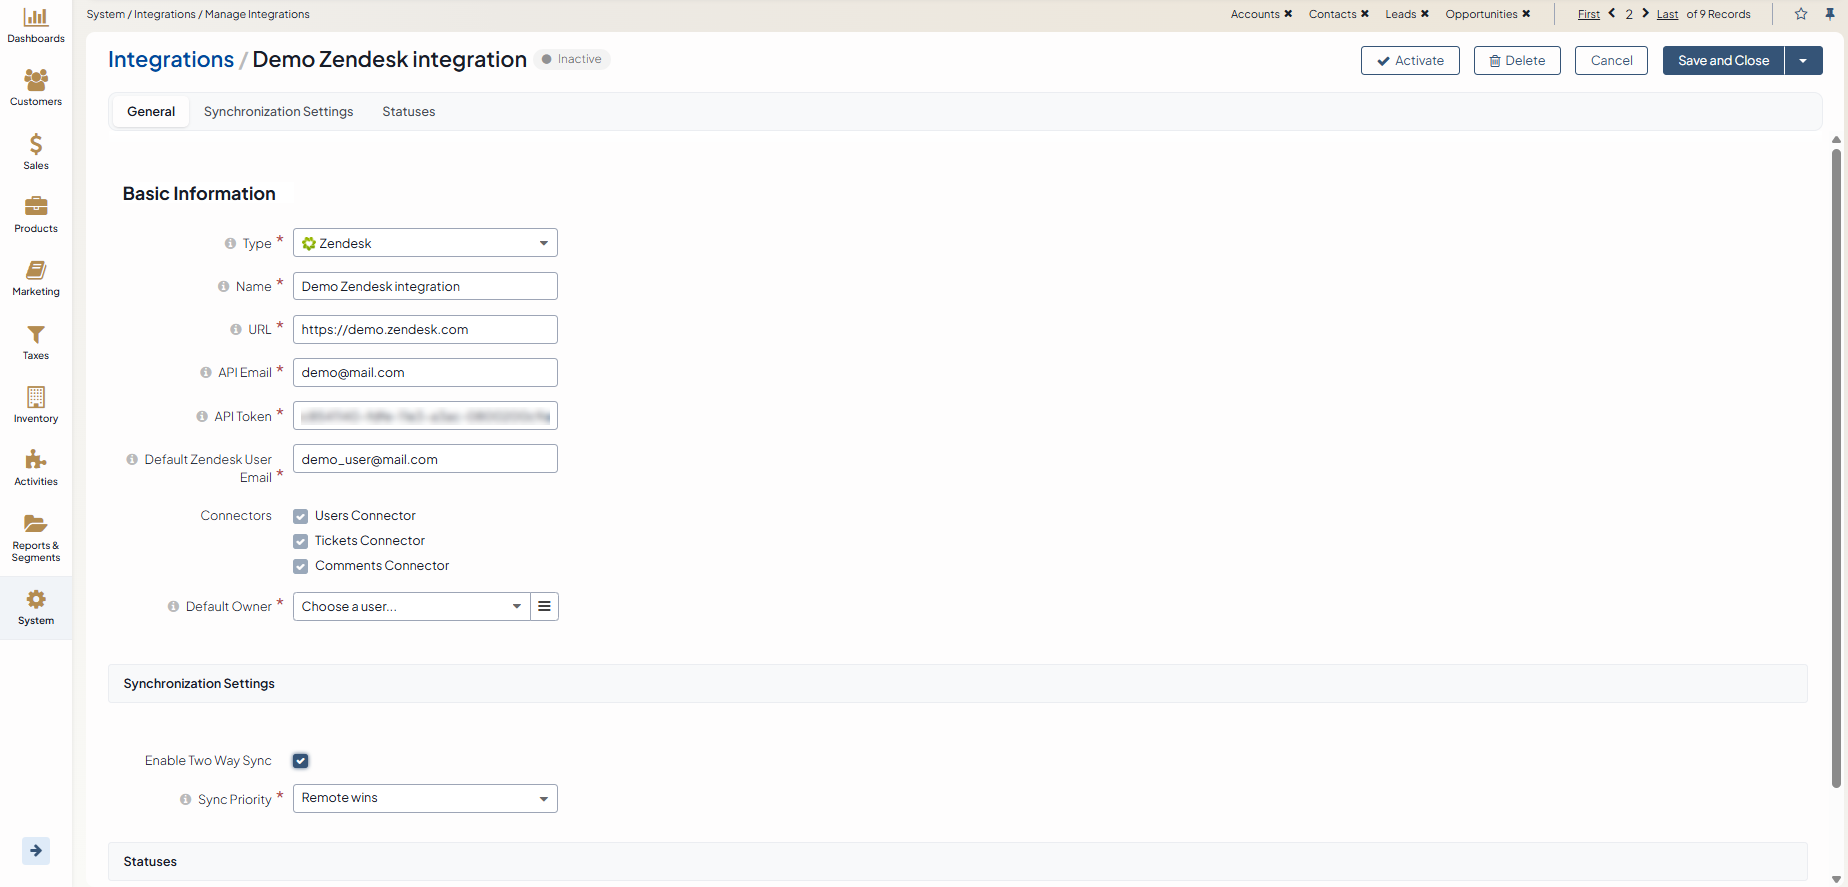
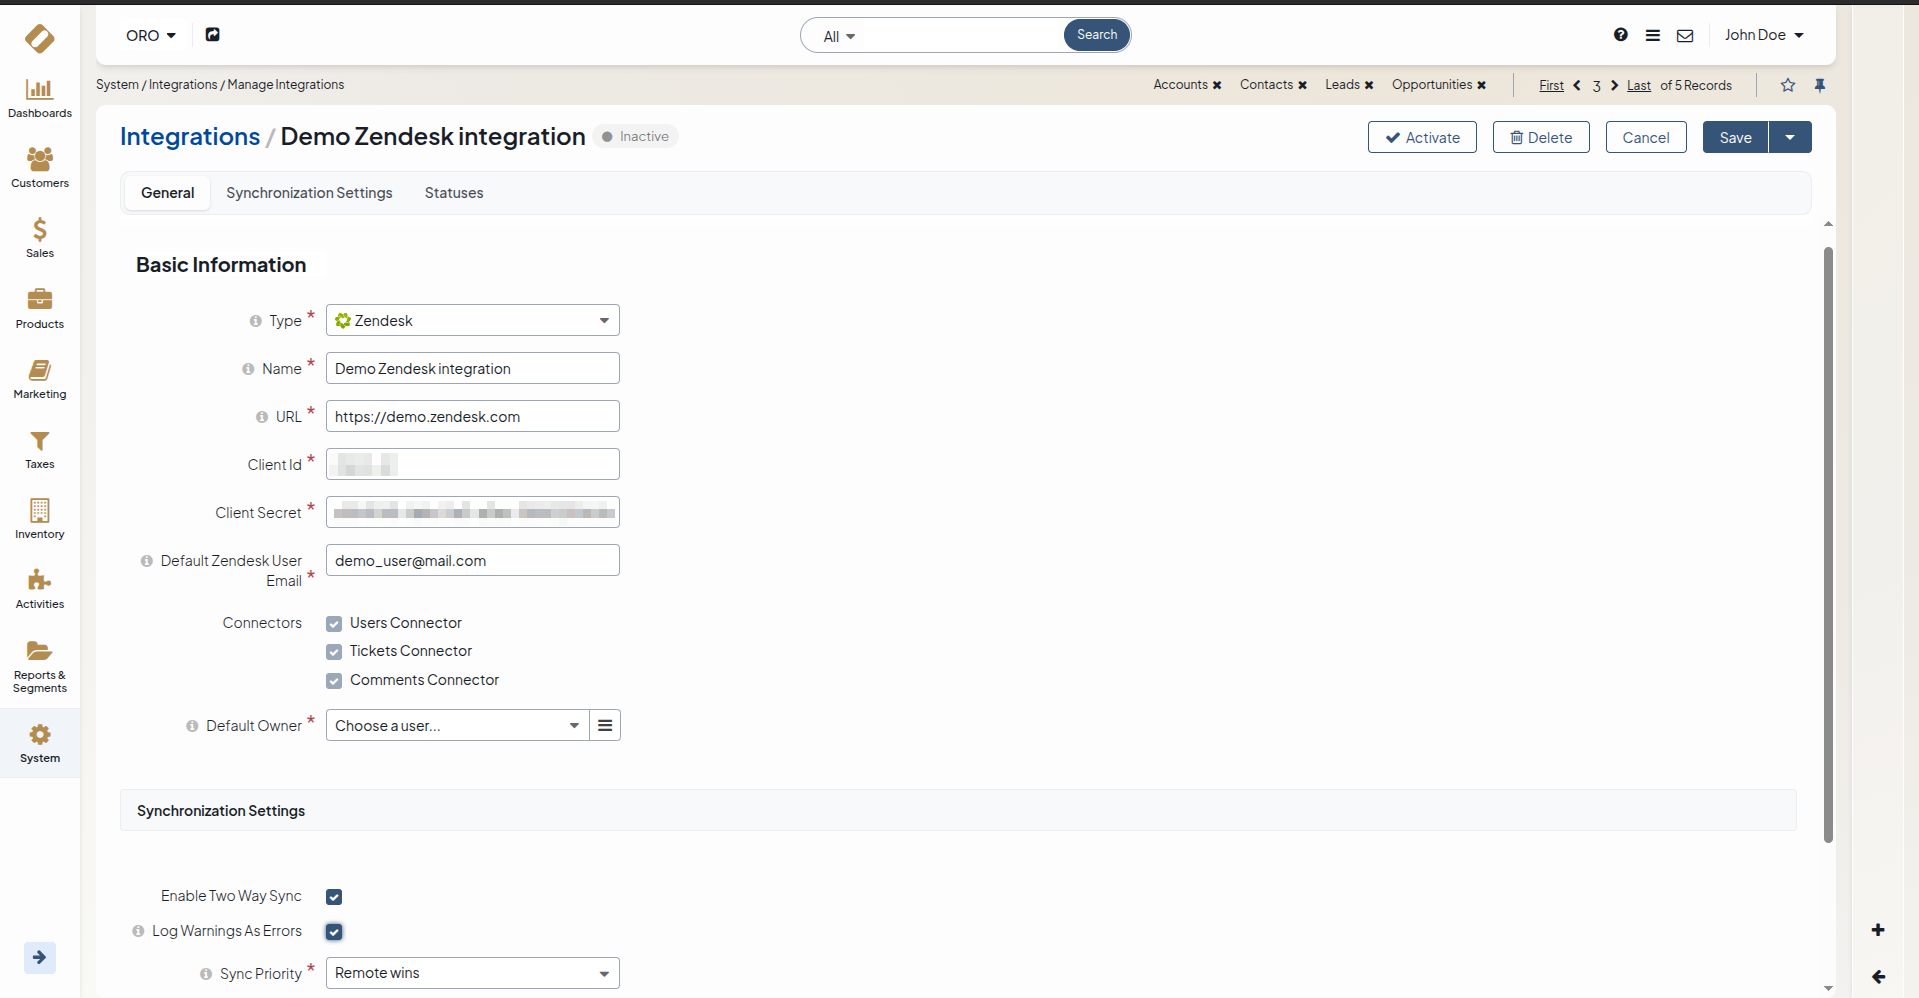
BAP-23236: Update Zendesk Integration m6.1 (#43826)
- Implemented OAuth authentication
- Made auth type configurable and required crypter service for the form
- Updated docs

---------

diff --git a/user/back-office/system/integrations/zendesk-integration.rst b/user/back-office/system/integrations/zendesk-integration.rst
@@ -4,66 +4,121 @@
 Configure Zendesk Integration in the Back-Office
 ================================================
 
-Oro applications support out of the box integration with Zendesk, enabling you to load data from your Zendesk account and process it in the Oro application. This article describes how to define and edit the integration and synchronization settings.
+Oro applications support out-of-the-box integration with Zendesk, enabling you to load data from your Zendesk account and process it in the Oro application.
 
-.. hint:: While Zendesk integration capabilities are pre-implemented, Oro application can be integrated with different third-party systems.
+OroCommerce supports two authentication methods for Zendesk integration:
 
-Generate API token in Zendesk
+* **Basic** --- authenticate using a Zendesk account email and API token.
+* **OAuth** --- use OAuth 2.0 for secure, delegated authorization.
+
+.. _user-guide-zendesk-generate-api-token:
+
+Generate API Token in Zendesk
 -----------------------------
+
+If you plan to use **Basic** as the **Authorization Type**, generate an API token in Zendesk first.
 
 To retrieve your API token on the Zendesk side:
 
 1. Open your account profile.
-2. Click on the cog icon in the panel to the left to open the **Admin** menu.
+2. Click the cog icon in the panel to the left to open the **Admin** menu.
 
    .. image:: /user/img/system/integrations/zendesk/zendesk_admin.png
+      :alt: Zendesk Admin menu in the left panel
 
-2. Navigate to the **Apps & Integrations > API Configuration**.
+3. Navigate to **Apps & Integrations > API Configuration**.
 
    .. image:: /user/img/system/integrations/zendesk/zendesk_api.png
+      :alt: Zendesk API configuration page
 
-3. Make sure the **Token Access** is enabled.
-
-4. Click on API Tokens in the panel to the left to open the API Tokens page.
-5. Click **Add API Token** to create a new one.
+4. Make sure the **Token Access** is enabled.
+5. Click **API Tokens** in the panel to the left to open the API Tokens page.
+6. Click **Add API Token** to create a new one.
 
    .. image:: /user/img/system/integrations/zendesk/zendesk_api_token.png
+      :alt: Zendesk API Tokens page with Add API Token button
 
-6. Provide a description for the new token, and click **Save**. This will prompt generation of a new token.
+7. Provide a description for the new token, and click **Save**. This will prompt generation of a new token.
 
    .. image:: /user/img/system/integrations/zendesk/new-token.png
+      :alt: Zendesk new API token generation dialog
 
-7. Copy and store this the token as you will need it to connect to the OroCommerce application. Please be aware that it will not be shown again after you click **Save**.
+8. Copy and store the token as you will need it to connect to OroCommerce. Please be aware that it will not be shown again after you click **Save**.
 
-Create the Integration
-----------------------
+.. _user-guide-zendesk-add-oauth-client:
+
+Add OAuth Client in Zendesk
+---------------------------
+
+If you plan to use **OAuth** as the **Authorization Type**, add an OAuth client in Zendesk first.
+
+To add your OAuth client on the Zendesk side:
+
+1. Open your account profile.
+2. Click the cog icon in the left panel to open the **Admin** menu.
+
+   .. image:: /user/img/system/integrations/zendesk/zendesk_admin.png
+      :alt: Zendesk Admin menu in the left panel
+
+3. In the left sidebar, navigate to **Apps and integrations > OAuth clients**.
+
+   .. image:: /user/img/system/integrations/zendesk/zendesk_dashboard_oauth_token.png
+      :alt: Zendesk Apps and integrations section with OAuth clients selected
+
+4. Click **Add OAuth client**.
+
+   .. image:: /user/img/system/integrations/zendesk/zendesk_oauth_page.png
+      :alt: Zendesk OAuth clients page with Add OAuth client button
+
+5. Fill in the required fields and click **Save**. This generates a new secret for the client. When filling in the form, keep the following in mind:
+
+   * Set the **Client kind** field to **Public**.
+   * Use the **Identifier** value as the **OAuth Client ID** in the OroCommerce integration.
+   * Copy the **OAuth Callback URL** from the OroCommerce integration page and paste it into the **Redirect URLs** field in Zendesk.
+
+   .. image:: /user/img/system/integrations/zendesk/zendesk_oauth_form_secret_generation.png
+      :alt: Zendesk OAuth client form with the generated secret
+
+Create a New Integration
+------------------------
 
 To create an integration with Zendesk:
 
-1. Navigate to **System > Integrations > Manage Integrations** in the main menu:
+1. Navigate to **System > Integrations > Manage Integrations** in the main menu.
 2. Click **Create Integration** on the top right.
-3. On the **Create Integration** page, set the integration type to **Zendesk**
+3. On the **Create Integration** page, set the integration type to **Zendesk**.
 4. In the **General** section, define the following mandatory details:
 
    .. csv-table::
      :header: "Field", "Description"
      :widths: 10, 30
    
-     "**Type***","The integration type. Must be set to **Zendesk**"
+     "**Type***","The integration type. Must be set to **Zendesk**."
      "**Name***","The integration name used to refer to the integration within the system."
      "**URL***","A URL of your Zendesk account (e.g., ``https://username.zendesk.com``)."
-     "**API Email***","The email used to register your Zendesk account."
-     "**API Token***","The API token generated and/or copied in the Zendesk (as described above)."
+     "**Authorization Type***","The authentication method to use when connecting to Zendesk. Select **Basic** to authenticate
+     using a Zendesk email address and API token, or **OAuth** to use OAuth 2.0 authorization.
+
+     .. image:: /user/img/system/integrations/zendesk/zendesk_create_connection-type.png
+      :alt: Zendesk integration create form with Basic and oAuth authorization types selected on two different forms shown side by side"
+
+     "**API Email***","*(Basic only)* The email address used to register your Zendesk account."
+     "**API Token***","*(Basic only)* The API token generated in your Zendesk account."
+     "**OAuth Client ID***","*(OAuth only)* The unique identifier of the OAuth client registered in Zendesk."
+     "**OAuth Callback URL**","*(OAuth only, read-only)* The callback URL for OAuth authorization. Copy this URL and paste
+     it into the **Redirect URLs** field when configuring your OAuth client in Zendesk."
      "**Default Zendesk User Email**","User with this email will be assigned tickets that come from the Oro application and for which
      there are no Zendesk users with a matching email address."
      "**Owner**","Limits the list of users that can manage the integration, subject to the access and permission settings
      etc.) Used as an Oro application user for Zendesk tickets if there are no users with a matching email address."
-  
+
 5. In the **Synchronization Settings** section, enable/disable the two-way synchronization.
 
-   Select the **Enable Two Way Sync** checkbox, if you want to download data both from Zendesk to your Oro application and back.
+   Select the **Enable Two-Way Sync** checkbox if you want to download data both from Zendesk to your Oro application and back.
    
    If the box is left unselected, data from Zendesk is loaded into the Oro application, but changes performed within it are not loaded back into Zendesk.
+
+.. note:: If using **OAuth**, changing the **Enable Two-Way Sync** setting later requires you to authorize the connection again so the access scope is updated.
 
 6. If the two-way synchronization is enabled, define the priority used for the conflict resolution (e.g., if the same customer details were edited from both Oro application and Zendesk):
 
@@ -72,6 +127,41 @@ To create an integration with Zendesk:
 
 .. note:: In the **Synchronization Settings** section, select the **Log Warnings** checkbox if you want all synchronization errors to be written into the application log.
 
+7. Click **Save** to save the integration.
+8. If you selected **OAuth** as the **Authorization Type**, make sure the Zendesk OAuth client is configured as described in the :ref:`Add OAuth Client in Zendesk <user-guide-zendesk-add-oauth-client>` section above, and then proceed to the :ref:`Authorize OAuth Connection to Zendesk <user-guide-zendesk-authorize-oauth-connection>` section below to complete the authorization.
+
+.. _user-guide-zendesk-authorize-oauth-connection:
+
+Authorize OAuth Connection to Zendesk
+-------------------------------------
+
+.. note:: This section applies only when **Authorization Type** is set to **OAuth**.
+
+1. To authorize connection to Zendesk, click the **Connect to Zendesk** button at the top of the integration form.
+
+   .. image:: /user/img/system/integrations/zendesk/zendesk_not_connected.png
+      :alt: Not Connected status with Connect to Zendesk button
+
+2. Once you see a pop-up message about redirection to Zendesk click **Continue to Zendesk** to proceed:
+
+   .. image:: /user/img/system/integrations/zendesk/oro_oauth_modal.png
+      :alt: Connect to Zendesk ORO modal dialog
+
+3. Next, sign in to your Zendesk account.
+4. On the Zendesk authorization page, review the permissions that OroCommerce is requesting:
+   
+   * If **Enable Two-Way Sync** is disabled: OroCommerce requests **Read** access only.
+   * If **Enable Two-Way Sync** is enabled: OroCommerce requests **Read** and **Write** access.
+
+   .. image:: /user/img/system/integrations/zendesk/zendesk_oauth_authorization.png
+      :alt: Zendesk OAuth authorization page
+
+5. Click **Allow** to authorize OroCommerce to access your Zendesk account.
+6. The authorization window will close automatically, and the label on the integration form will update from **Not Connected** to **Connected**, confirming that the connection has been authorized.
+
+   .. image:: /user/img/system/integrations/zendesk/zendesk_connected.png
+      :alt: Connected status after successful authorization
+
 .. _user-guide-Zendesk-channel-integration-details_edit:
 
 Manage the Integration
@@ -79,8 +169,7 @@ Manage the Integration
 
 As an illustration, we have created a sample Zendesk integration with two-way synchronization enabled and sync priority set to **Remote Wins**. This means that if the same data is changed from both Zendesk and Oro application, Zendesk changes take precedence.
 
-.. image:: /user/img/system/integrations/zendesk/zendesk_create.png
-
+.. image:: /user/img/system/integrations/zendesk/zendesk_connected.png
 
 Initially the integration is inactive. In order to activate it, click **Activate** on the integration details page.
 

diff --git a/README.md b/README.md
@@ -14,6 +14,12 @@ docker buildx bake --progress plain --load
 
 As a result, an image and a ./_build folder will be created where the built documentation will be located.
 
+> **Troubleshooting:**
+> 
+> The build process uses the `-W` flag (treat warnings as errors) in the Dockerfile. If the build fails, you may temporarily remove the `-W` flag from the `sphinx-build` command in the Dockerfile and re-run the build to see all issues.
+>
+> After fixing the problems, restore the `-W` flag and run the build again to ensure a clean result.
+
 ## Check
 
 The image can be launched as an instance and opened in a browser.
